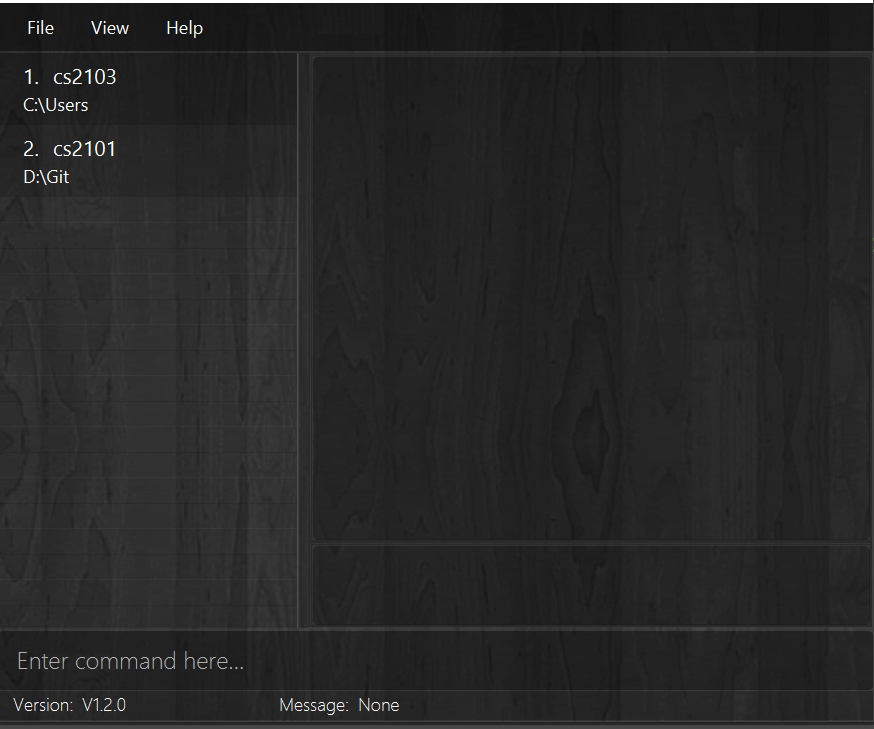
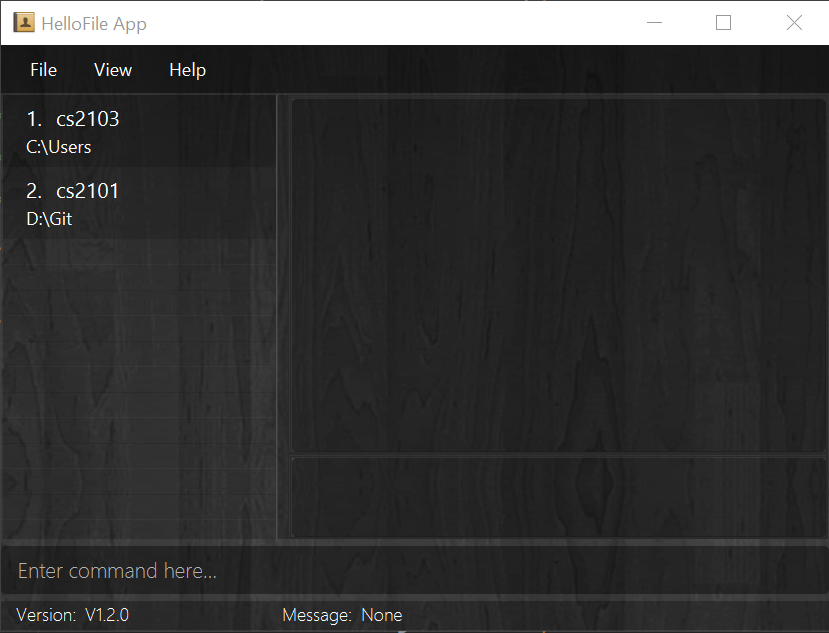
Add Galaxy Theme
Replace AB3 icon

diff --git a/src/main/resources/view/GalaxyTheme.css b/src/main/resources/view/GalaxyTheme.css
@@ -1,6 +1,6 @@
 /*----------background----------*/
 .root {
-    -fx-background-image: url("../images/background_dark_theme.gif");
+    -fx-background-image: url("../images/background_galaxy_theme.jpg");
 }
 
 /*----------pane----------*/
@@ -74,7 +74,7 @@
 
 /*----------text area----------*/
 .text-area {
-    -fx-background-color: rgba(0, 0, 0, 0.4);
+    -fx-background-color: rgba(0, 0, 0, 0.3);
     -fx-font-family: "Segoe UI Light";
     -fx-font-size: 16px;
     -fx-text-fill: white;

diff --git a/src/main/java/seedu/address/ui/ThemeWindow.java b/src/main/java/seedu/address/ui/ThemeWindow.java
@@ -46,10 +46,12 @@ public class ThemeWindow extends UiPart<Stage> {
     private void fillThemeCards() {
         ThemeCard defaultThemeCard = new ThemeCard("Default Theme", ThemeSet.DEFAULT_THEME, this);
         ThemeCard darkThemeCard = new ThemeCard("Dark Theme", ThemeSet.DARK_THEME, this);
+        ThemeCard galaxyThemeCard = new ThemeCard("Galaxy Theme", ThemeSet.GALAXY_THEME, this);
 
         themeList.getItems().setAll(
                 defaultThemeCard.getRoot(),
-                darkThemeCard.getRoot()
+                darkThemeCard.getRoot(),
+                galaxyThemeCard.getRoot()
         );
     }
 

diff --git a/src/main/java/seedu/address/ui/UiManager.java b/src/main/java/seedu/address/ui/UiManager.java
@@ -19,7 +19,7 @@ public class UiManager implements Ui {
     public static final String ALERT_DIALOG_PANE_FIELD_ID = "alertDialogPane";
 
     private static final Logger logger = LogsCenter.getLogger(OldUiManager.class);
-    private static final String ICON_APPLICATION = "/images/address_book_32.png";
+    private static final String ICON_APPLICATION = "/images/hello_file_icon.png";
 
     private Logic logic;
     private MainWindow mainWindow;

diff --git a/src/main/java/seedu/address/ui/ThemeSet.java b/src/main/java/seedu/address/ui/ThemeSet.java
@@ -10,4 +10,7 @@ public class ThemeSet {
 
     public static final Theme DARK_THEME =
             new Theme("view/HelloFileDarkTheme.css", "/images/dark_theme.png");
+
+    public static final Theme GALAXY_THEME =
+            new Theme("view/GalaxyTheme.css", "/images/galaxy_theme.png");
 }
